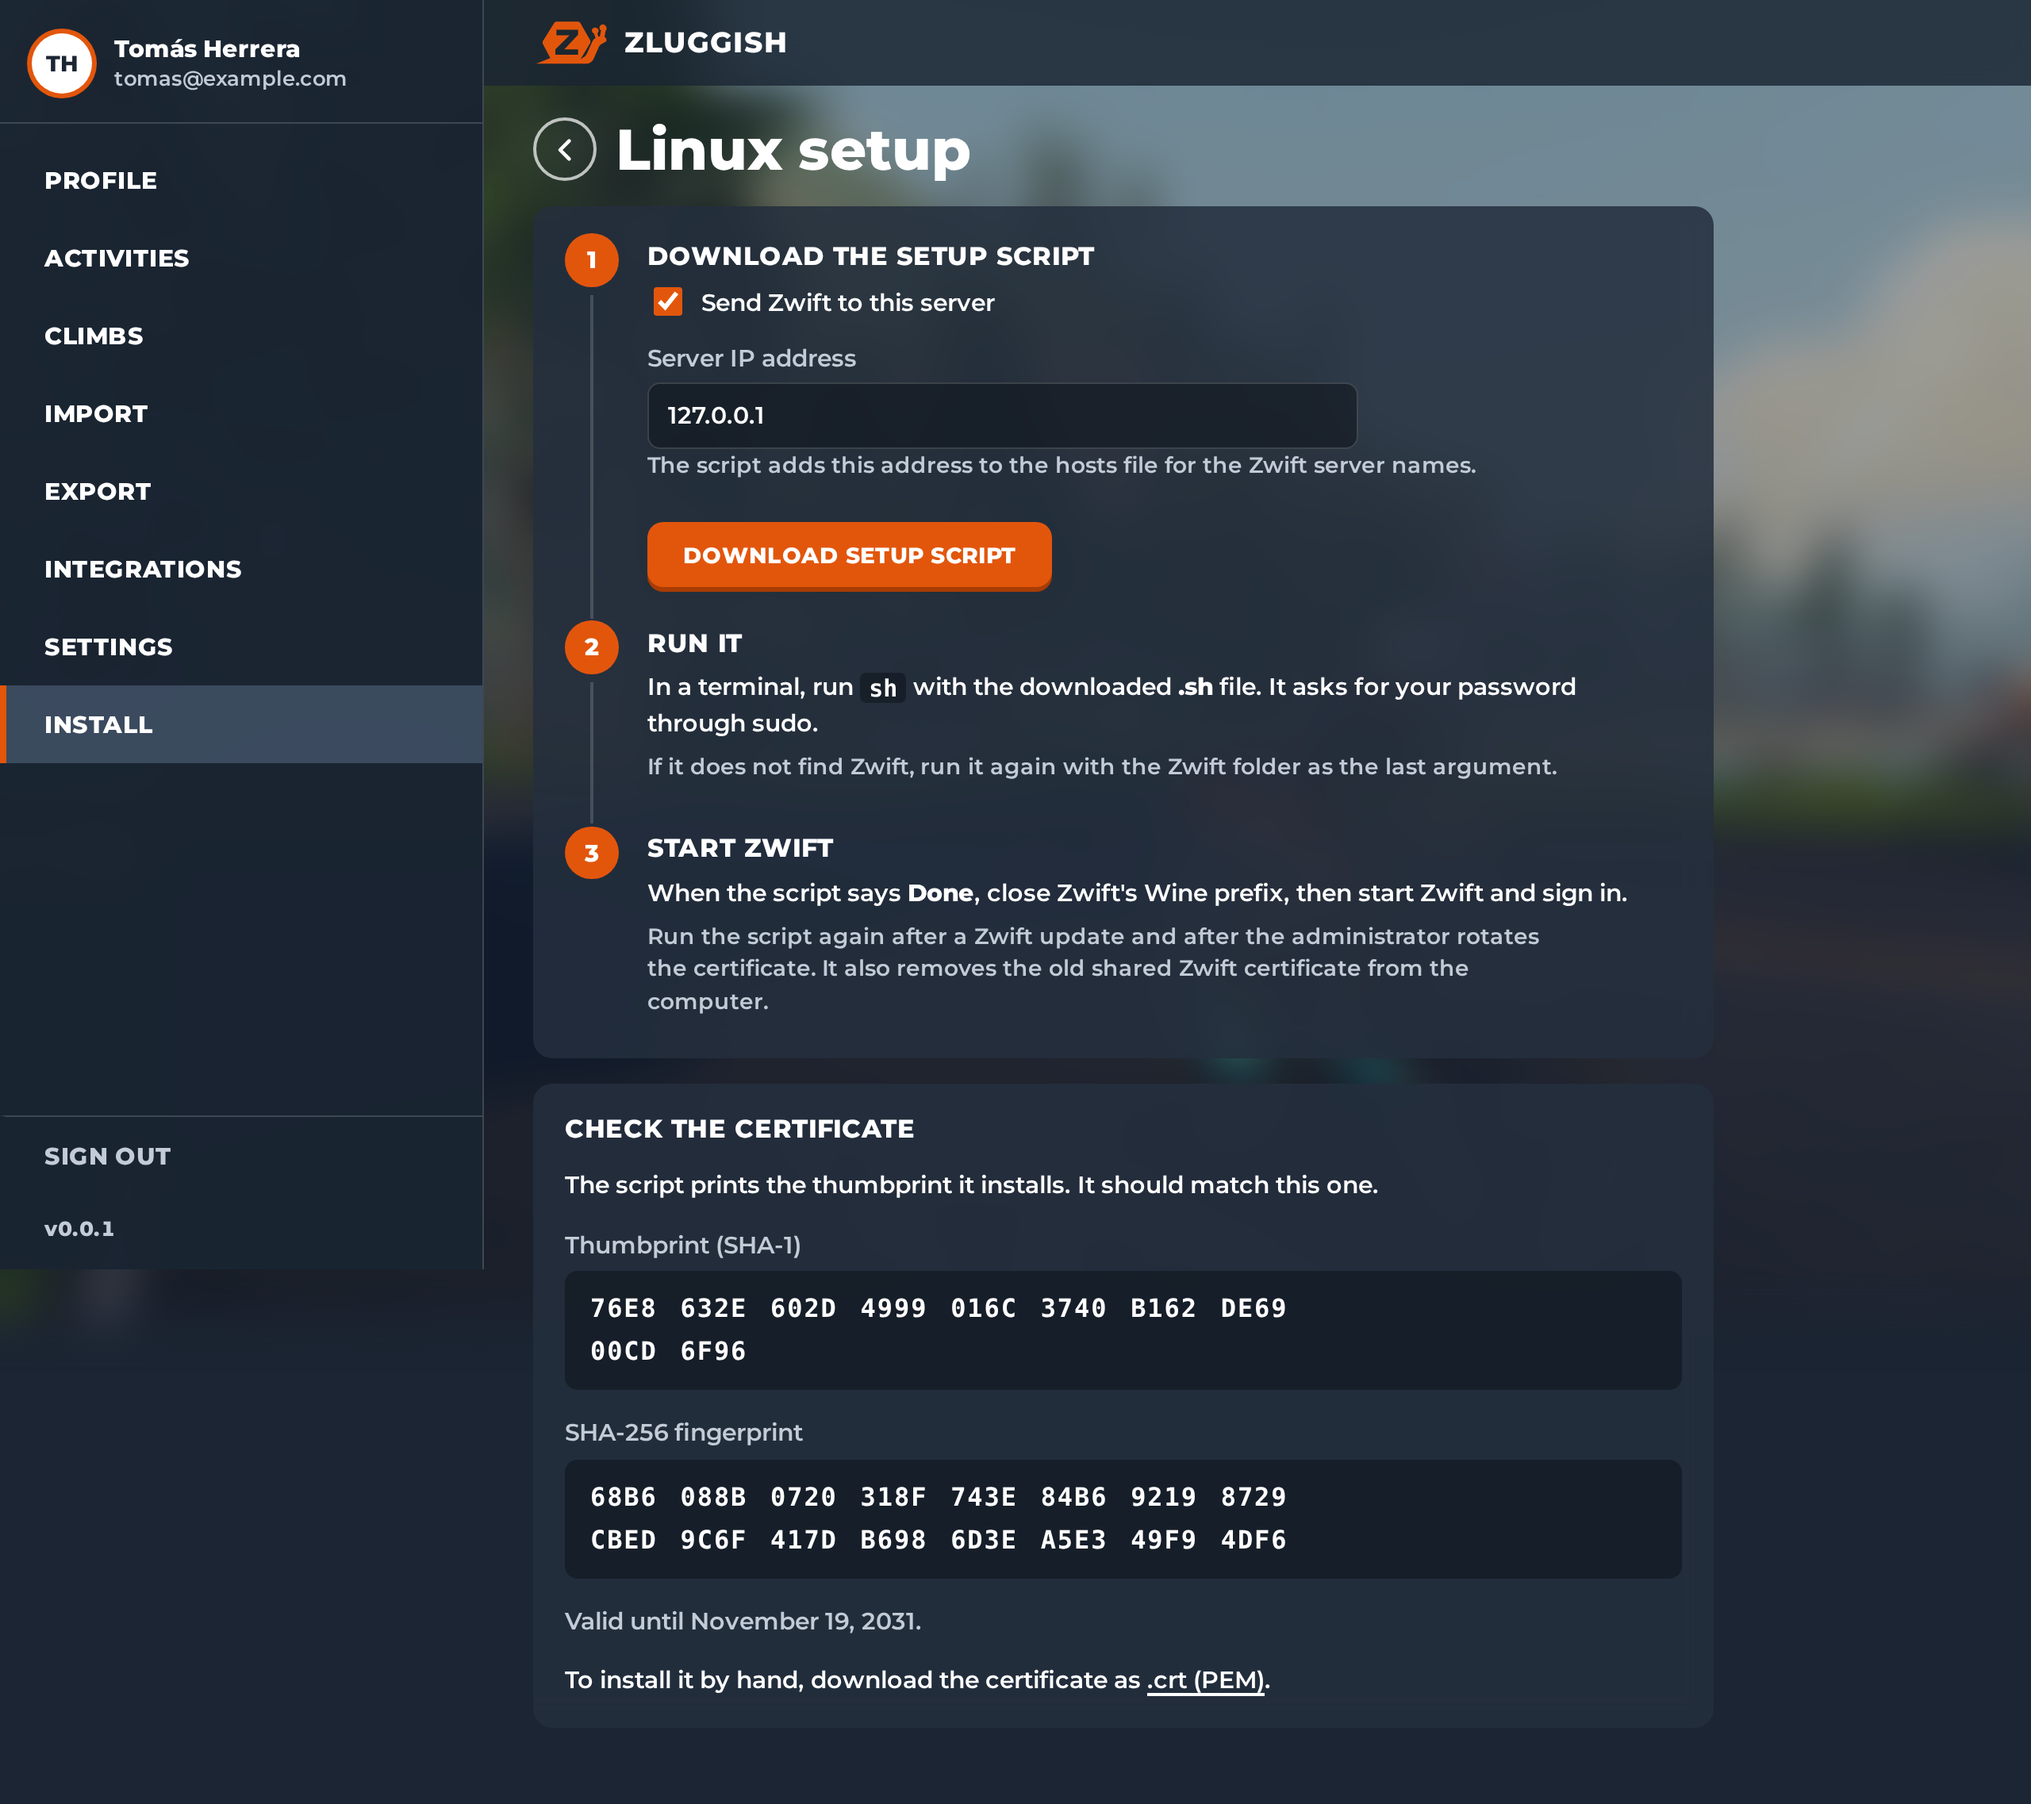
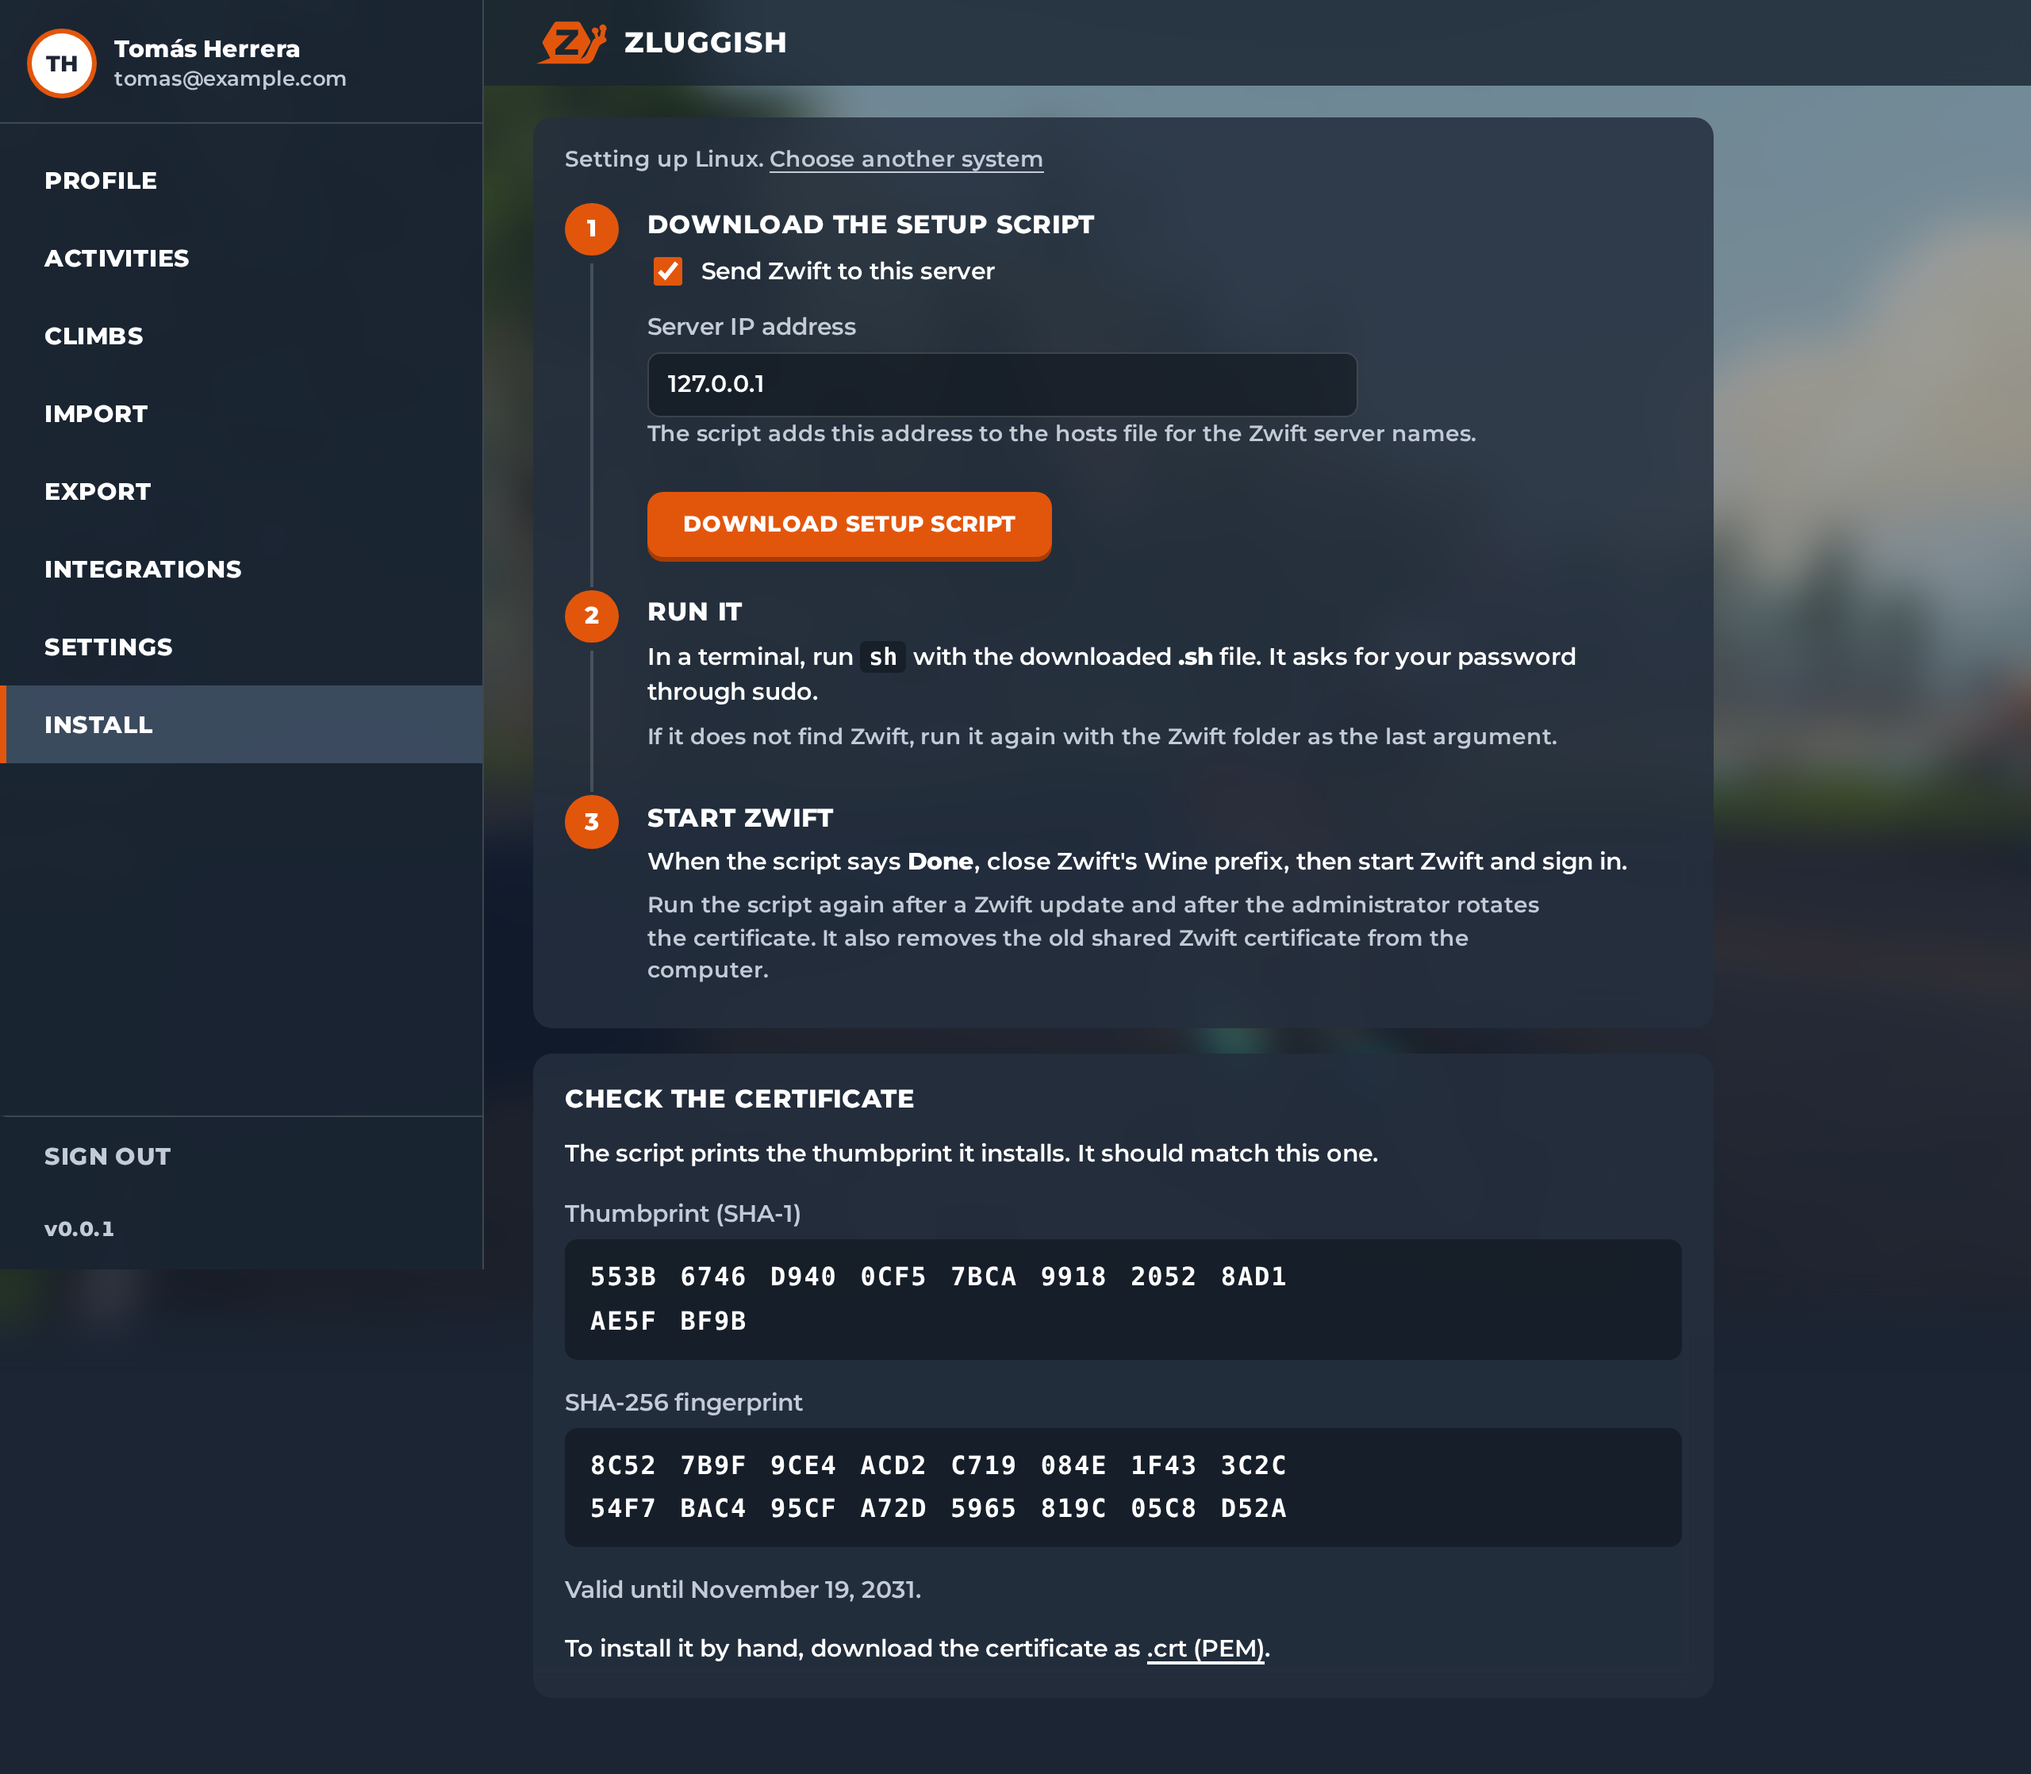
feat: open Install on the rider's own system
Install opens the setup for the system the browser runs on, with a quiet
link to choose another system at /install/choose. Macs and Android show
the choice, and iPhone and iPad show that Zwift there cannot use the
server.

The address for the hosts file is server.advertisedIp as configured,
even when it is 127.0.0.1: the address of the web app can differ from
the game server's.

On Windows, the page offers the certificate as .cer for the certificate
store and as .crt for Zwift's cacert.pem.

diff --git a/web/src/app/Install.svelte b/web/src/app/Install.svelte
@@ -9,7 +9,8 @@
     navigate,
   }: {
     api: <Body>(url: string) => Promise<Body>;
-    /** `/install` chooses the system; `/install/windows` and `/install/linux` set it up. */
+    /** `/install` sets up this browser's own system, or offers the choice; `/install/choose` always offers it;
+    `/install/windows` and `/install/linux` set up that system. */
     path: string;
     navigate: (path: string) => Promise<void>;
   } = $props();
@@ -21,11 +22,26 @@
     { id: 'linux', name: 'Linux', detail: 'Zwift in Wine, Lutris, Bottles or Steam' },
   ];
 
-  /** The system this browser runs on, marked on its button. */
-  const here: Platform =
-    /Linux/.test(navigator.userAgent) && !/Android/.test(navigator.userAgent) ? 'linux' : 'windows';
+  /** The system this browser runs on. iPadOS reports itself as a Mac with a touch screen. */
+  function detect() {
+    const agent = navigator.userAgent;
 
-  const platform = $derived(systems.find((system) => path === `/install/${system.id}`) ?? null);
+    if (/iPhone|iPad|iPod/.test(agent) || (/Macintosh/.test(agent) && navigator.maxTouchPoints > 1)) return 'ios';
+
+    if (/Android/.test(agent)) return 'android';
+
+    if (/Windows/.test(agent)) return 'windows';
+
+    if (/Macintosh|Mac OS X/.test(agent)) return 'mac';
+
+    return /Linux|X11|CrOS/.test(agent) ? 'linux' : 'other';
+  }
+
+  const here = detect();
+
+  const platform = $derived(
+    systems.find((system) => path === `/install/${system.id}` || (path === '/install' && system.id === here)) ?? null,
+  );
 
   let status = $state<TlsStatus | null>(null);
   let failure = $state('');
@@ -34,8 +50,6 @@
   /** On a server with the shared certificate, the rider confirms the risk before the download unlocks. */
   let accepted = $state(false);
   let address = $state('');
-
-  const loopback = (value: string) => value === 'localhost' || value === '::1' || value.startsWith('127.');
 
   const looksLikeIp = (value: string) =>
     /^(\d{1,3}\.){3}\d{1,3}$/.test(value) || (value.includes(':') && /^[\da-f:.]+$/i.test(value));
@@ -63,9 +77,8 @@
   onMount(async () => {
     try {
       status = await api<TlsStatus>('/api/tls');
-      // The advertised IP, unless it is loopback: then the address this browser reached the web app at.
-      const host = location.hostname.replace(/^\[|\]$/g, '');
-      address = loopback(status.serverAddress) && looksLikeIp(host) && !loopback(host) ? host : status.serverAddress;
+      // The advertised IP as the server is configured, even 127.0.0.1: the web app's own address may differ.
+      address = status.serverAddress;
     } catch (error) {
       failure = error instanceof Error ? error.message : 'The certificate could not be loaded.';
     }
@@ -90,6 +103,16 @@
     <p>
       Ask the server administrator to generate a server certificate. Until then you can set up a computer with the
       shared certificate. After the switch, run the new setup from this page.
+    </p>
+  </section>
+{/if}
+
+{#if status && !platform && here === 'ios'}
+  <section class="panel unsafe" aria-labelledby="install-ios">
+    <h2 id="install-ios">iPhone and iPad are not supported</h2>
+    <p>
+      Zwift on iPhone and iPad cannot be set up to use Zluggish. To ride on this server, set up a Windows or Linux
+      computer instead.
     </p>
   </section>
 {/if}
@@ -119,6 +142,16 @@
     </section>
   {:else}
     <section class="panel" aria-label={`${platform.name} setup steps`}>
+      <p class="switch">
+        Setting up {platform.name}.
+        <a
+          href="/install/choose"
+          onclick={(event) => {
+            event.preventDefault();
+            void navigate('/install/choose');
+          }}>Choose another system</a
+        >
+      </p>
       <ol class="walk">
         <li>
           <h2>Download the setup script</h2>
@@ -211,11 +244,12 @@
       </div>
       <p class="muted">Valid until {day(status.certificate.notAfter)}.</p>
       <p class="manual">
-        To install it by hand, download the certificate as
-        {#if platform.id === 'windows'}<a href="/api/tls/certificate?format=der" download>.cer</a>{:else}<a
-            href="/api/tls/certificate"
-            download>.crt (PEM)</a
-          >{/if}.
+        {#if platform.id === 'windows'}
+          To install it by hand, download the certificate as <a href="/api/tls/certificate?format=der" download>.cer</a>
+          for the Windows certificate store and as <a href="/api/tls/certificate" download>.crt</a> for Zwift's cacert.pem.
+        {:else}
+          To install it by hand, download the certificate as <a href="/api/tls/certificate" download>.crt (PEM)</a>.
+        {/if}
       </p>
     </section>
   {/if}
@@ -389,6 +423,19 @@
   }
 
   /* Step 2: the setup is a real sequence, so the steps carry large orange numbers down a rail. */
+  /* The way out to the other systems stays quiet: most riders are on the system the page picked. */
+  .switch {
+    margin: -0.25rem 0 1.25rem;
+    color: var(--muted);
+    font-size: 0.875rem;
+  }
+  .switch a {
+    color: var(--muted);
+    text-decoration-thickness: 1px;
+  }
+  .switch a:hover {
+    color: var(--text);
+  }
   .walk {
     counter-reset: step;
     margin: 0;

diff --git a/web/src/app/App.svelte b/web/src/app/App.svelte
@@ -153,11 +153,7 @@
 
   /** The link beside the title back to the page above this one. */
   const back = $derived(
-    manage && path.startsWith('/manage/users/')
-      ? { href: '/manage', label: 'All users' }
-      : path.startsWith('/install/')
-        ? { href: '/install', label: 'Choose another system' }
-        : undefined,
+    manage && path.startsWith('/manage/users/') ? { href: '/manage', label: 'All users' } : undefined,
   );
 
   const administrator = $derived(user?.role === 'administrator');

diff --git a/docs/install/clients/windows.md b/docs/install/clients/windows.md
@@ -11,12 +11,13 @@ This procedure makes Windows and Zwift trust the [server certificate](../certifi
 
 1. Install Zwift, if it is not installed.
 2. Sign in to the Zluggish web app and select **Install** in the menu.
-3. Select **Windows**. On the next page, check the IP address of the server, then select **Download setup script**.
+3. On a Windows computer, **Install** opens the Windows setup. On another device, select **Choose another system**, then **Windows**.
+4. Check the IP address of the server, then select **Download setup script**. The address is `server.advertisedIp` from the server configuration.
 
-   ![The Install page: a Windows button marked This computer, and a Linux button](../../../media/screenshots/webapp-install.png)
+   ![Windows setup in three steps: download the setup script, run it and start Zwift, with a Choose another system link at the top](../../../media/screenshots/webapp-install.png)
 
-4. Open the downloaded `.bat` file. Allow it to make changes when Windows asks. If SmartScreen stops it, select **More info**, then **Run anyway**.
-5. Wait until the window says **Done**.
+5. Open the downloaded `.bat` file. Allow it to make changes when Windows asks. If SmartScreen stops it, select **More info**, then **Run anyway**.
+6. Wait until the window says **Done**.
 
 The script:
 
@@ -30,7 +31,7 @@ To check the certificate, compare the thumbprint that the script shows with the 
 
 ## Set up the client by hand
 
-1. On the **Install** page, download the certificate as `.cer`.
+1. On the **Install** page, under **Check the certificate**, download the certificate as `.cer`.
 2. Open Command Prompt as an administrator, go to the directory with the file and import it:
 
    ```bat

diff --git a/docs/install/clients/linux.md b/docs/install/clients/linux.md
@@ -11,7 +11,7 @@ This procedure is for Zwift for Windows in Wine, Lutris, Bottles or Steam (Proto
 
 1. Install Zwift, if it is not installed.
 2. Sign in to the Zluggish web app and select **Install** in the menu.
-3. Select **Linux**. On the next page, check the IP address of the server, then select **Download setup script**.
+3. On a Linux computer, **Install** opens the Linux setup. On another device, select **Choose another system**, then **Linux**. Check the IP address of the server, then select **Download setup script**. The address is `server.advertisedIp` from the server configuration.
 
    ![Linux setup in three steps: download the setup script, run it and start Zwift, with the certificate fingerprints below](../../../media/screenshots/webapp-install-linux.png)
 

diff --git a/docs/install/clients/android-rooted.md b/docs/install/clients/android-rooted.md
@@ -11,7 +11,7 @@ This procedure makes Zwift trust the [server certificate](../certificate.md) and
 
 1. Install Zwift on the device.
 2. Start Zwift once, so that it downloads all the extra files. The file `cacert.pem` exists only after this first start.
-3. In the Zluggish web app, select **Install** in the menu. Under the system buttons, select **certificate** to download it as a `.crt` file.
+3. In the Zluggish web app, select **Install** in the menu. If it opens a setup, select **Choose another system**. Under the system buttons, select **certificate** to download it as a `.crt` file.
 4. Add the contents of the `.crt` file to the end of `/data/data/com.zwift.zwiftgame/dataES/cacert.pem`.
 
 If the device has no text editor, use `adb`:

diff --git a/docs/install/clients/macos.md b/docs/install/clients/macos.md
@@ -10,7 +10,7 @@ This procedure makes macOS and Zwift trust the [server certificate](../certifica
 ## Set up the client
 
 1. Install Zwift, if it is not installed.
-2. Sign in to the Zluggish web app and select **Install** in the menu. Under the system buttons, select **certificate** to download it as a `.crt` file.
+2. Sign in to the Zluggish web app and select **Install** in the menu. If it opens a setup, select **Choose another system**. Under the system buttons, select **certificate** to download it as a `.crt` file.
 3. Open Keychain Access.
 4. Under **Keychains**, select **System**. Under **Category**, select **Certificates**.
 5. Select **File → Import Items…** and import the `.crt` file.
